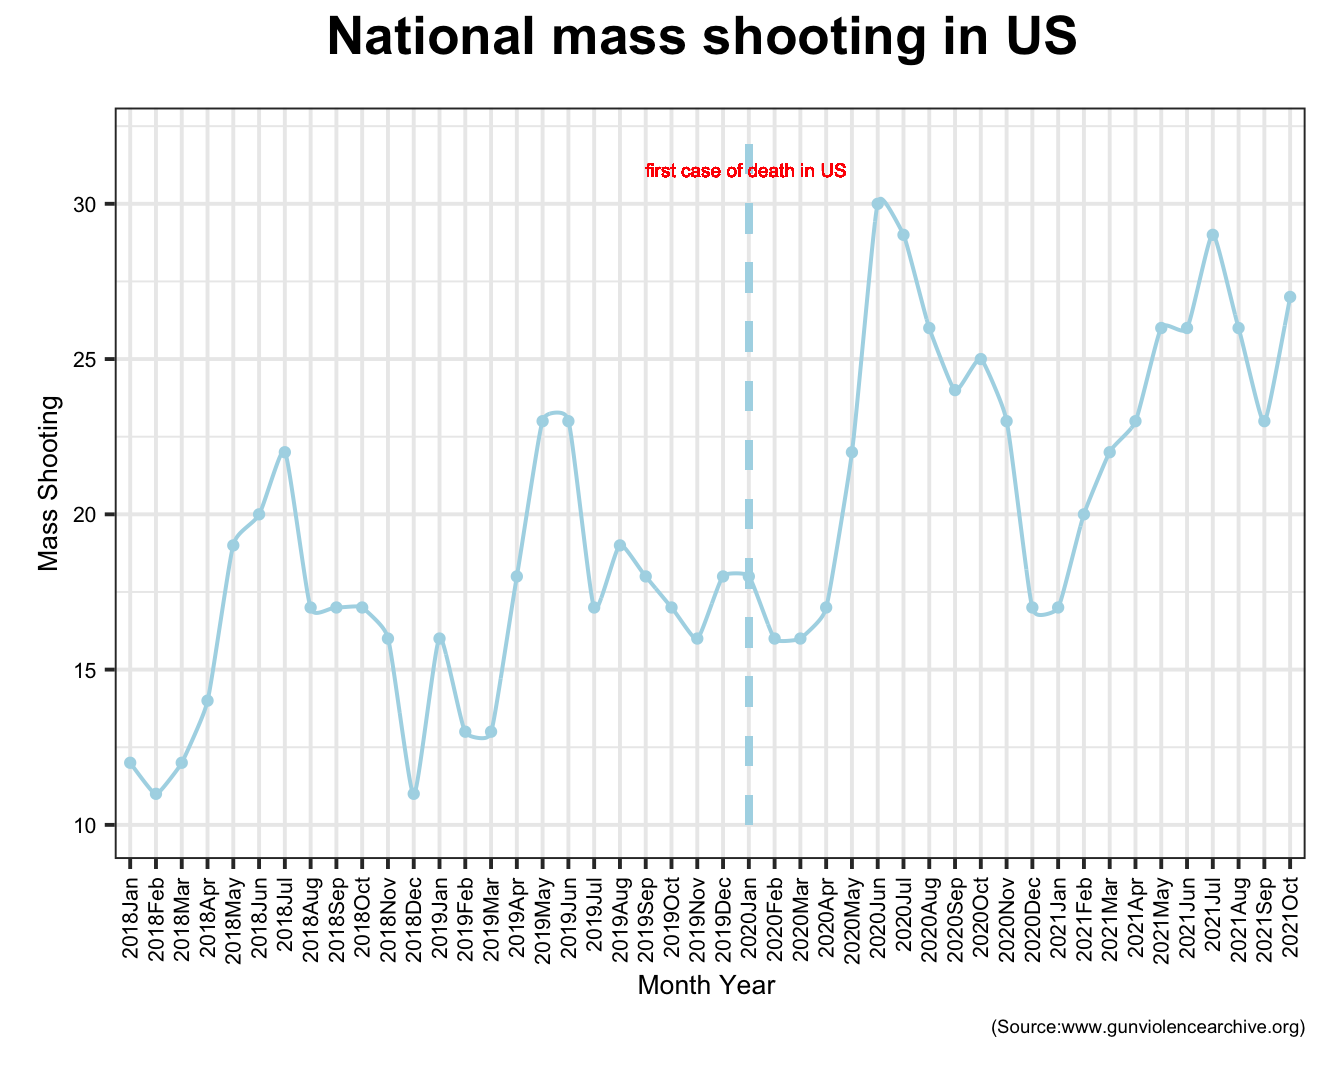
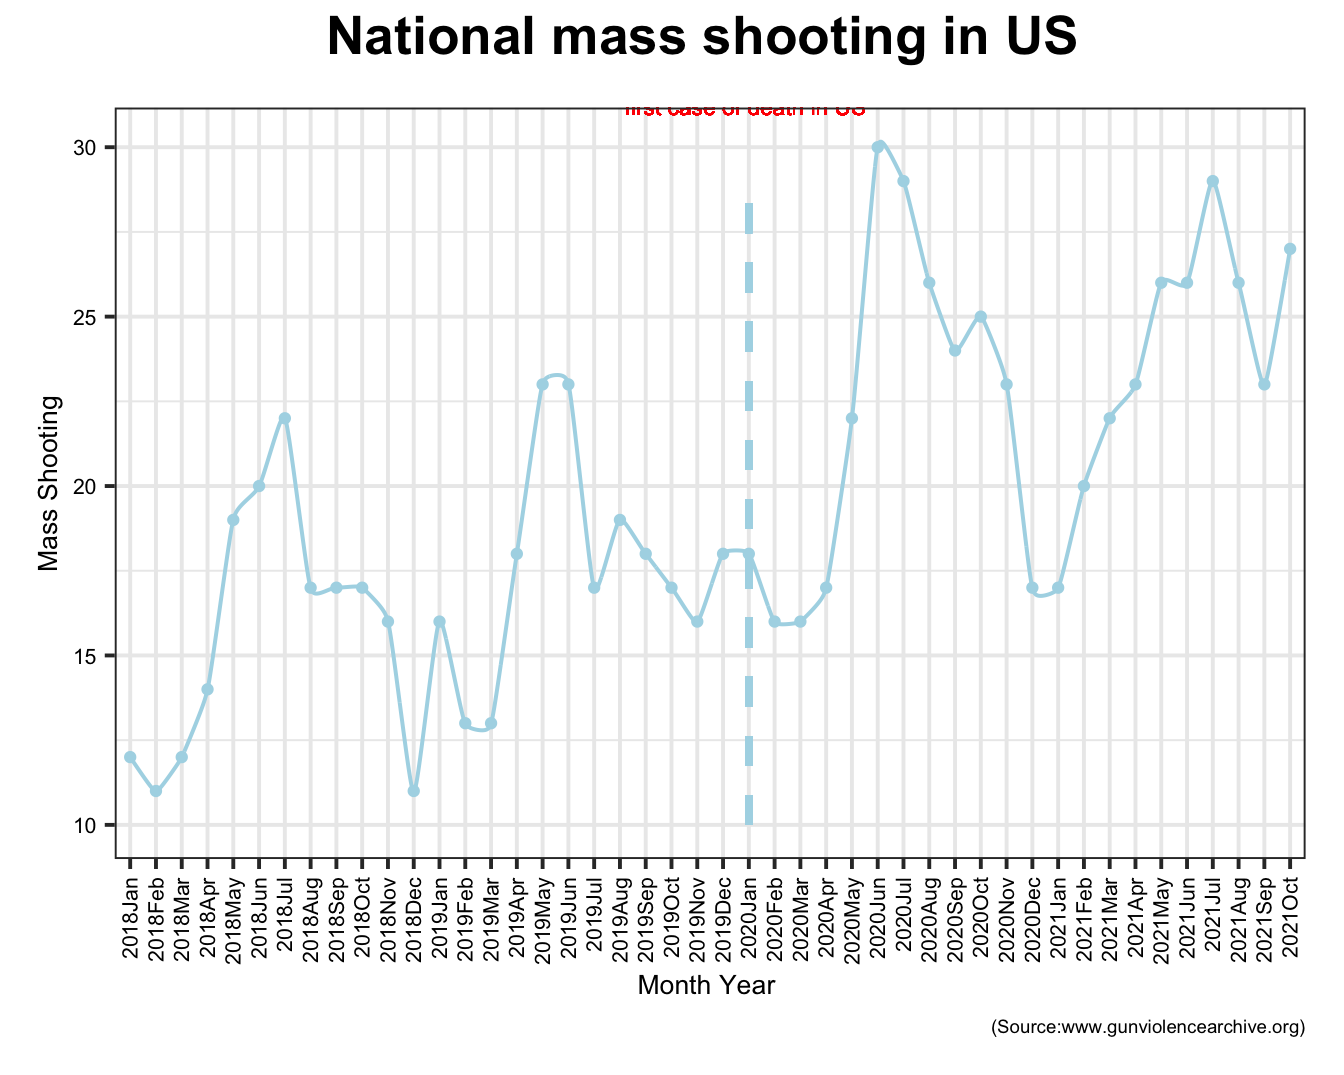
adjust html plots

diff --git a/exploratory-analysis.html b/exploratory-analysis.html
@@ -255,7 +255,7 @@ $(document).ready(function () {
 </li>
 <li class="dropdown-header">Regression Model</li>
 <li>
-  <a href="shiny_dashboard.html">Shiny</a>
+  <a href="https://gun-violence-p8105.shinyapps.io/shiny/">Shiny</a>
 </li>
 <li>
   <a>
@@ -326,12 +326,12 @@ read_csv(&quot;data/gun violence/mass shootings(all years).csv&quot;) %&gt;%
   count() %&gt;% 
   rename(number_mass_shooting=n) %&gt;% 
   ggplot(aes(year_month,number_mass_shooting)) + theme_bw(base_size=15 ) +
-  geom_xspline(aes(group=1),color=&quot;lightblue&quot;,size=1.3) + geom_point(color=&quot;lightblue&quot;,size=2.5) +
-  geom_segment(aes(x = 25, y = 10, xend = 25, yend = 32) ,size=1.6,colour = &quot;lightblue&quot;,linetype=&quot;dashed&quot;) + 
-  geom_text(aes(x=25, y= 30, label = &quot;first case of death in US &quot; ), colour = &quot;red&quot;, vjust = -2, hjust = 0.5, size = 6)  + 
+  geom_xspline(aes(group=1),color=&quot;lightblue&quot;,size=0.7) + geom_point(color=&quot;lightblue&quot;,size=1.5) +
+  geom_segment(aes(x = 25, y = 10, xend = 25, yend = 29) ,size=1.3,colour = &quot;lightblue&quot;,linetype=&quot;dashed&quot;) + 
+  geom_text(aes(x=25, y= 30, label = &quot;first case of death in US &quot; ), colour = &quot;red&quot;, vjust = -2, hjust = 0.5, size = 3)  + 
   labs(x = &quot;Month Year &quot;, y = &quot;Mass Shooting&quot;, title = &quot;National mass shooting in US &quot;,caption=&quot;(Source:www.gunviolencearchive.org)&quot;) + theme( plot.title = element_text(colour = &quot;black&quot;, face = &quot;bold&quot;, 
-    size = 26, vjust = 3, hjust = 0.5), plot.margin = unit(c(0.2, 0.2, 0.2, 0.2), &quot;inches&quot;),axis.text=element_text(colour=&quot;black&quot;,size=13),axis.title=element_text(size=20)) + theme(axis.text.x = element_text(angle = 90, vjust = 0.5, hjust =1))</code></pre>
-<p><img src="exploratory-analysis_files/figure-html/unnamed-chunk-2-1.png" width="90%" /></p>
+    size = 20, vjust = 3, hjust = 0.5), plot.margin = unit(c(0.2, 0.2, 0.2, 0.2), &quot;inches&quot;),axis.text=element_text(colour=&quot;black&quot;,size=8),axis.title=element_text(size=10)) + theme(axis.text.x = element_text(angle = 90, vjust = 0.5, hjust =1),plot.caption = element_text(size=7)) </code></pre>
+<p><img src="exploratory-analysis_files/figure-html/unnamed-chunk-2-1.png" width="100%" /></p>
 <p>The plot above shows a fluctutation in national mass shooting number in US from January 2018 to October 2021. From the plot, we can reach two conclusions.First, there is a seasonal pattern in national mass shooting that in every year, basically, number of mass shooting will begin to increase from January and reach its peak in summer and then reduce to bottom. Second, 2020 saw a huge increase in mass shootings compared with previous years, and 2021 is trending a little lower. After data processing in R, there is nationally mass shootings jumped nearly 50% during a pandemic with crippling unemployment, violent protests and idle youth.</p>
 <pre class="r"><code>mass_shooting_state=
   gun_violence_state_df %&gt;% 
@@ -342,10 +342,10 @@ read_csv(&quot;data/gun violence/mass shootings(all years).csv&quot;) %&gt;%
   mutate(Number=number_mass_shooting)</code></pre>
 <pre><code>## Adding missing grouping variables: `state`</code></pre>
 <pre class="r"><code>mass_shooting_state %&gt;% 
-  ggplot(aes(x=fct_reorder(state,number_mass_shooting),y=number_mass_shooting,fill=Number)) + geom_bar(stat = &quot;identity&quot;, colour = &quot;black&quot;,position = &quot;dodge&quot;) + theme_bw(base_size=15 ) +
-  theme(axis.text.x = element_text(angle = 90, vjust = 0.5, hjust =1))+ labs(y= &quot;Mass Shooting&quot;, x = &quot;State&quot;,title=&quot;Top States with highest number of Mass Shooting&quot;,caption=&quot;(Source:www.gunviolencearchive.org)&quot;) + theme( plot.title = element_text(colour = &quot;black&quot;, face = &quot;bold&quot;, 
-  size = 32, vjust = 3, hjust = 0.5), plot.margin = unit(c(0.2, 0.2, 0.2, 0.2), &quot;inches&quot;),axis.text=element_text(colour=&quot;black&quot;,size=6)) + theme(axis.text.x = element_text(angle = 90, vjust = 0.5, hjust =1,size=14),axis.text.y = element_text(size=14),axis.title=element_text(size=20)) </code></pre>
-<p><img src="exploratory-analysis_files/figure-html/unnamed-chunk-3-1.png" width="90%" /></p>
+  ggplot(aes(x=fct_reorder(state,number_mass_shooting),y=number_mass_shooting,fill=Number)) + geom_bar(stat = &quot;identity&quot;, colour = &quot;black&quot;,position = &quot;dodge&quot;) + theme_bw( ) +
+  theme(axis.text.x = element_text(angle = 90, vjust = 0.5, hjust =1))+ labs(y= &quot;Mass Shooting&quot;, x = &quot;State&quot;,title=&quot;Top States with highest \n number of Mass Shooting&quot;,caption=&quot;(Source:www.gunviolencearchive.org)&quot;) + theme( plot.title = element_text(colour = &quot;black&quot;, face = &quot;bold&quot;, 
+  size = 15, vjust = 3, hjust = 0.5), plot.margin = unit(c(0.2, 0.2, 0.2, 0.2), &quot;inches&quot;),axis.text=element_text(colour=&quot;black&quot;,size=3)) + theme(axis.text.x = element_text(angle = 90, vjust = 0.5, hjust =1,size=8),axis.text.y = element_text(size=8),axis.title=element_text(size=10),plot.caption = element_text(size=7)) </code></pre>
+<p><img src="exploratory-analysis_files/figure-html/unnamed-chunk-3-1.png" width="100%" /></p>
 <p>We arrange 48 states in an ascending way according to the number of mass shooting from 2018 to 2021. As shown in the bar chart, top 8 states are Illinois, California, Texas, Florida, Pennsylvania, Louisiana, New York and Ohio respectively. As one of city in Illinois, Chicago Leads the nation in mass shootings, averaging about one per week.</p>
 
 
